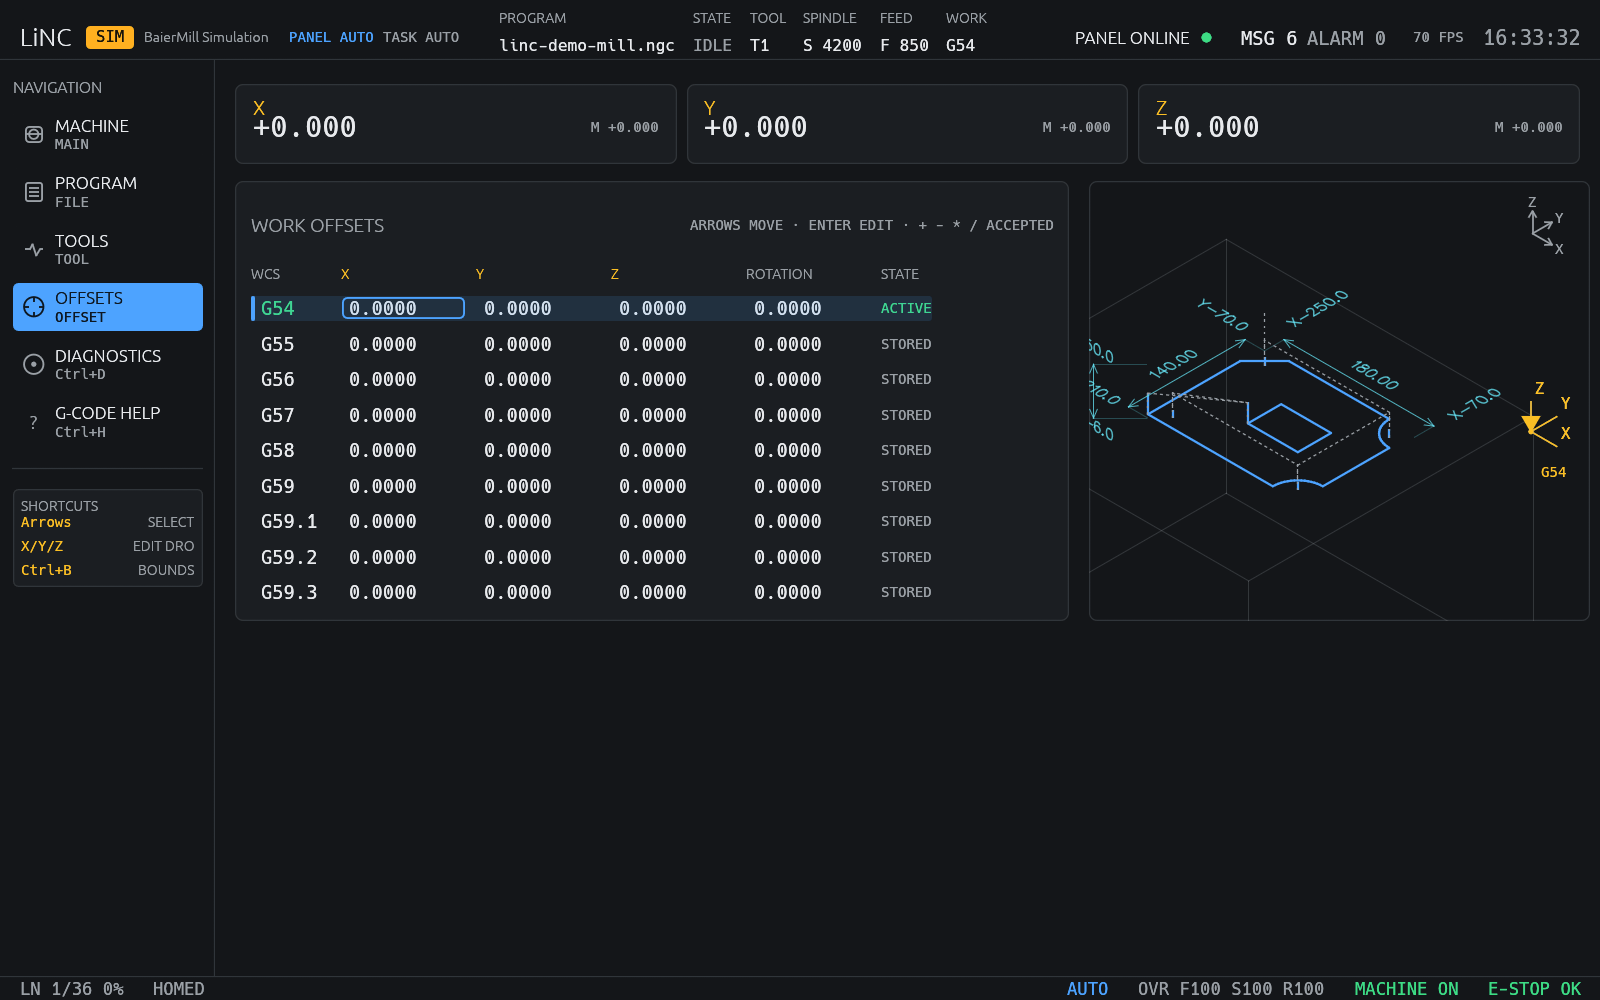
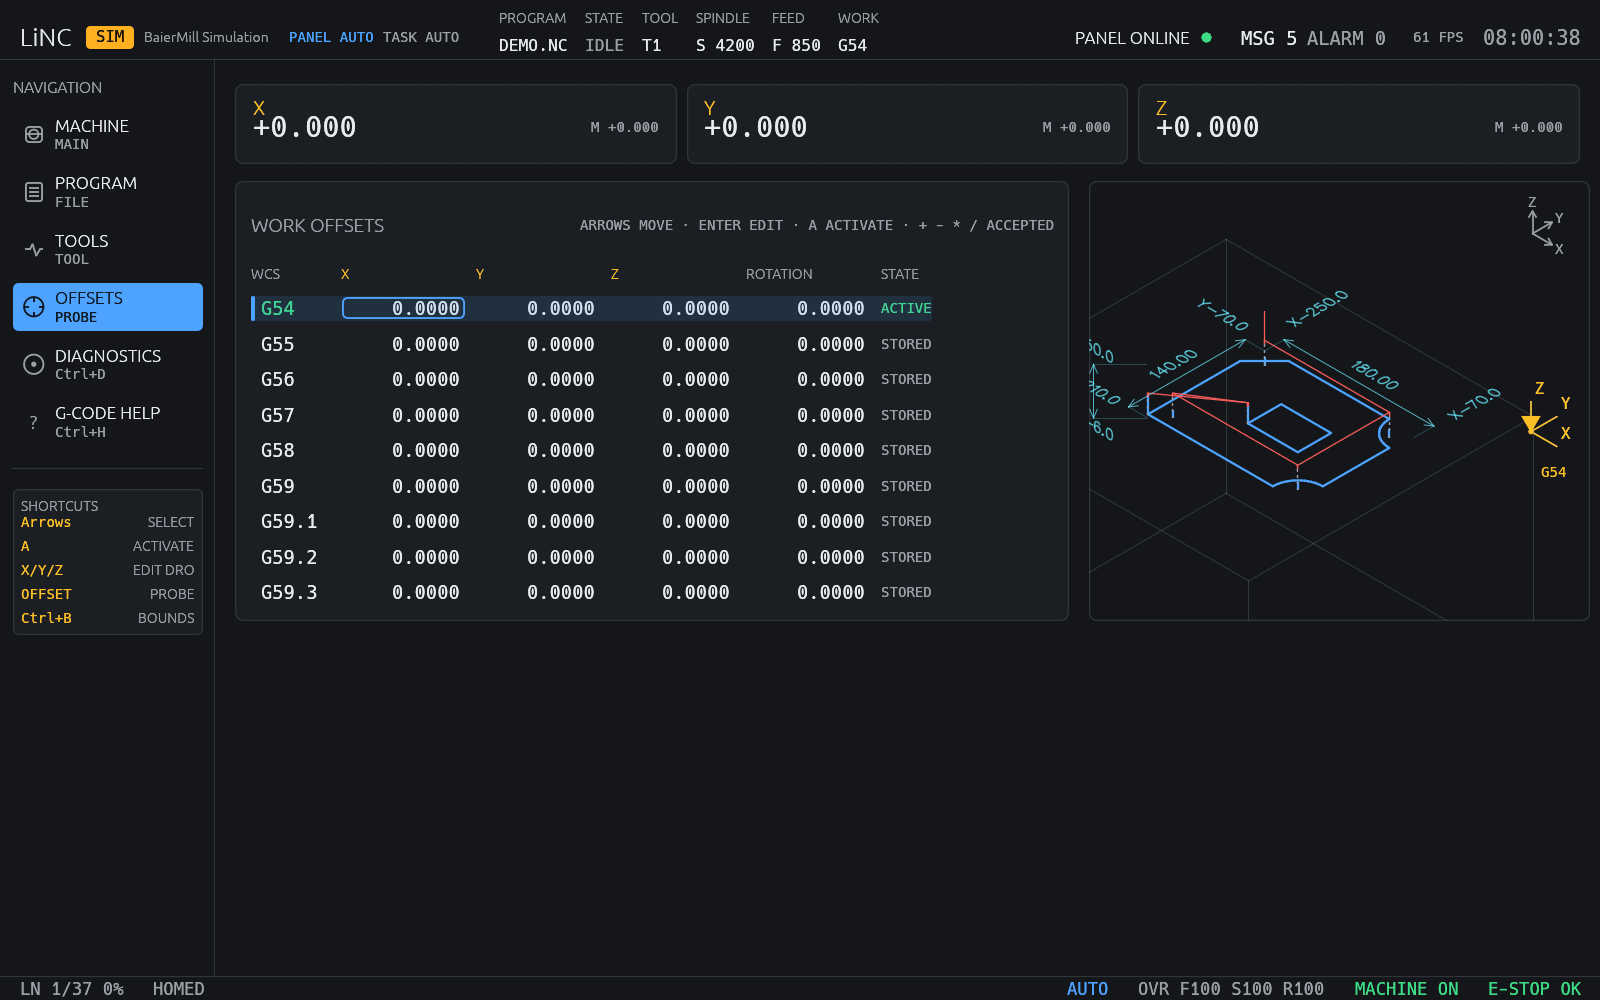
Refresh the README screenshots and describe the current panes
Re-captured all six page shots from the simulator at 1600x1000, and added the
Touch Probe and Files pages to the table. The probe page is the illustrated
routine grid with its parameters and results; Files is the two-pane browser.

The prose follows the code: the probe results panel carries keys instead of
buttons, the MDI block preview is yellow with overtravel in red and a refused
block turns the input's frame red, the preview reads the machine's modal groups
so G91 works, the input grows upward while the listing scrolls, AUTO brings up
MAIN from any page, and the toolpath view follows the head while it moves.

diff --git a/README.md b/README.md
@@ -26,6 +26,8 @@ Click any image for the full-size PNG.
 | [![Tool table](docs/screenshots/tools.png)](docs/screenshots/tools.png) | [![Work offsets](docs/screenshots/offsets.png)](docs/screenshots/offsets.png) |
 | **Diagnostics** | **G-code Help** |
 | [![Diagnostics overview](docs/screenshots/diagnostics.png)](docs/screenshots/diagnostics.png) | [![G-code help index](docs/screenshots/help.png)](docs/screenshots/help.png) |
+| **Touch Probe** | **Files** |
+| [![Touch probe: illustrated routines, parameters and results](docs/screenshots/probe.png)](docs/screenshots/probe.png) | [![Files: USB media beside NC_FILES](docs/screenshots/files.png)](docs/screenshots/files.png) |
 
 ## Accepted references
 
@@ -237,16 +239,25 @@ performance and limitations - is in [docs/sim3d.md](docs/sim3d.md).
   subroutines are vendored verbatim under `subroutines/probe_basic`; LiNC builds
   the `#3014`–`#3036` parameter block and issues the selected `o<probe_...>`
   call via Probe Basic `issue_mdi` after validation. Results come from
-  `#1001`–`#1012`. Rotary-axis probing is not offered.
+  `#1001`–`#1012`. The results panel carries no buttons: `U` updates the
+  parameter block and `Ctrl+R`/`Ctrl+X`/`Ctrl+Y` reset all, X and Y data, all
+  listed on the shortcuts rail. Rotary-axis probing is not offered.
 - **MDI is a pane on the Machine page**: the panel's MDI position opens MAIN
   with the `PROGRAM` card replaced by the block listing, a syntax-highlighted
   input that holds focus, a one-line result strip and the MODAL band AUTO shows.
   `Enter` issues one block via `issue_mdi` and commits it to the buffer, `Ctrl+R`
   re-runs the selected line, `Ctrl+Up`/`Ctrl+Down` move it in the buffer and
   `Ctrl+S` saves the buffer to a new `.ngc`. A value word typed against a digit
-  gets its space (`G1X10` becomes `G1 X10`), and the block being edited is drawn
-  on MAIN's toolpath in the pane's own colour. The buffer lasts the app session;
-  leaving MDI keeps it, and `Esc` clears uncommitted input only.
+  gets its space (`G1X10` becomes `G1 X10`). The block being edited is drawn on
+  MAIN's toolpath in yellow, and whatever part of it would run past an INI travel
+  limit is red: a block that leaves the envelope is refused before it is sent,
+  the input's frame turning red while `Enter` names the limit in the result
+  strip. The preview reads the block in the machine's modal groups, so a block
+  typed in `G91` is drawn as the relative move it is. The input has no
+  placeholder and grows upward — the listing above gives way — and that listing
+  scrolls, staying on the newest block until the operator scrolls away. The
+  buffer lasts the app session; leaving MDI keeps it, and `Esc` clears
+  uncommitted input only. AUTO on the panel brings MAIN up from any page.
 - **JOG, INC and MPG open a shared read-only Manual screen.** A large live
   graph dominates, with large work coordinates plus machine coordinates and
   DTG. Jog/increment/handwheel input remains on the panel; the screen never
@@ -257,6 +268,10 @@ performance and limitations - is in [docs/sim3d.md](docs/sim3d.md).
   position. Any part of the loaded path outside the machine's INI travel
   envelope is solid red, split at the crossing, so red means outside the
   machine boundary; the inside keeps the cut, rapid or selected-line colour.
+  The view follows the head while it moves: when a zoomed or panned card would
+  leave the marker outside it, the pan shifts by the least amount that brings
+  it back. A still head is never pulled back, so panning or zooming to inspect
+  another part of the program stays possible.
 - **The panel status 7-segment shows the active work offset** (`54`–`59`),
   because two digits fit exactly and the coordinate frame matters during
   setup. It shows `--` when unknown; spindle load or units are optional
